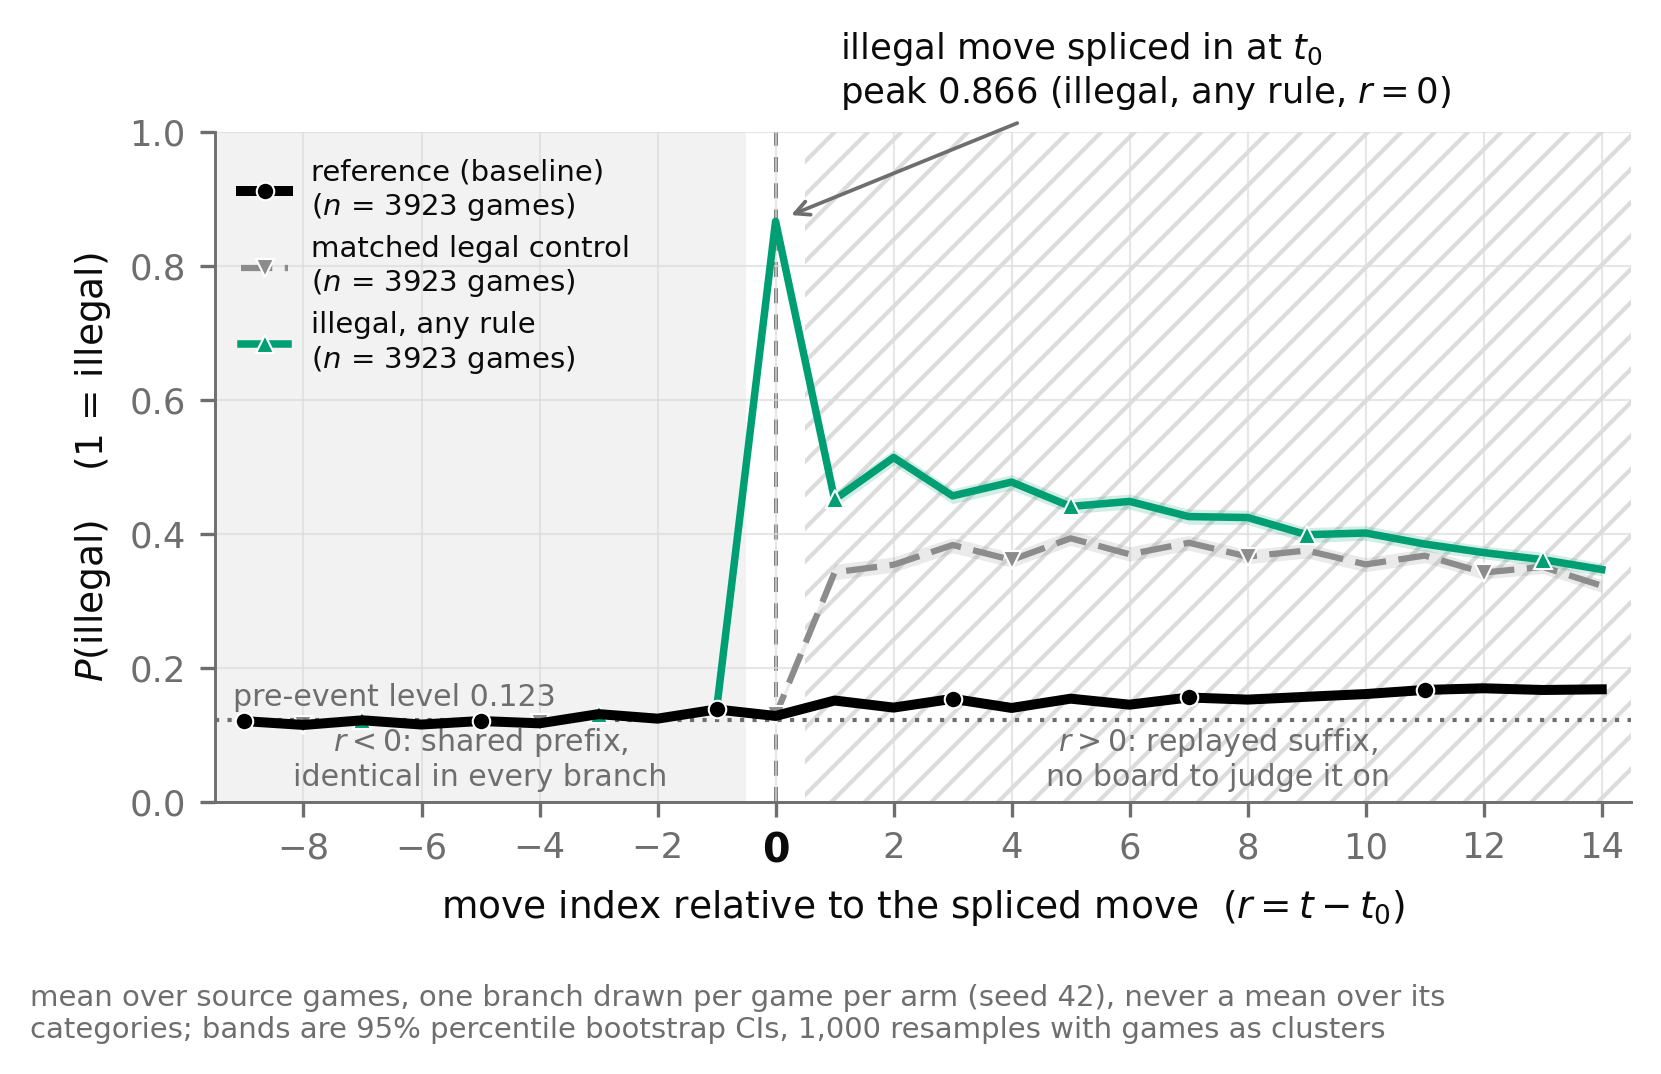
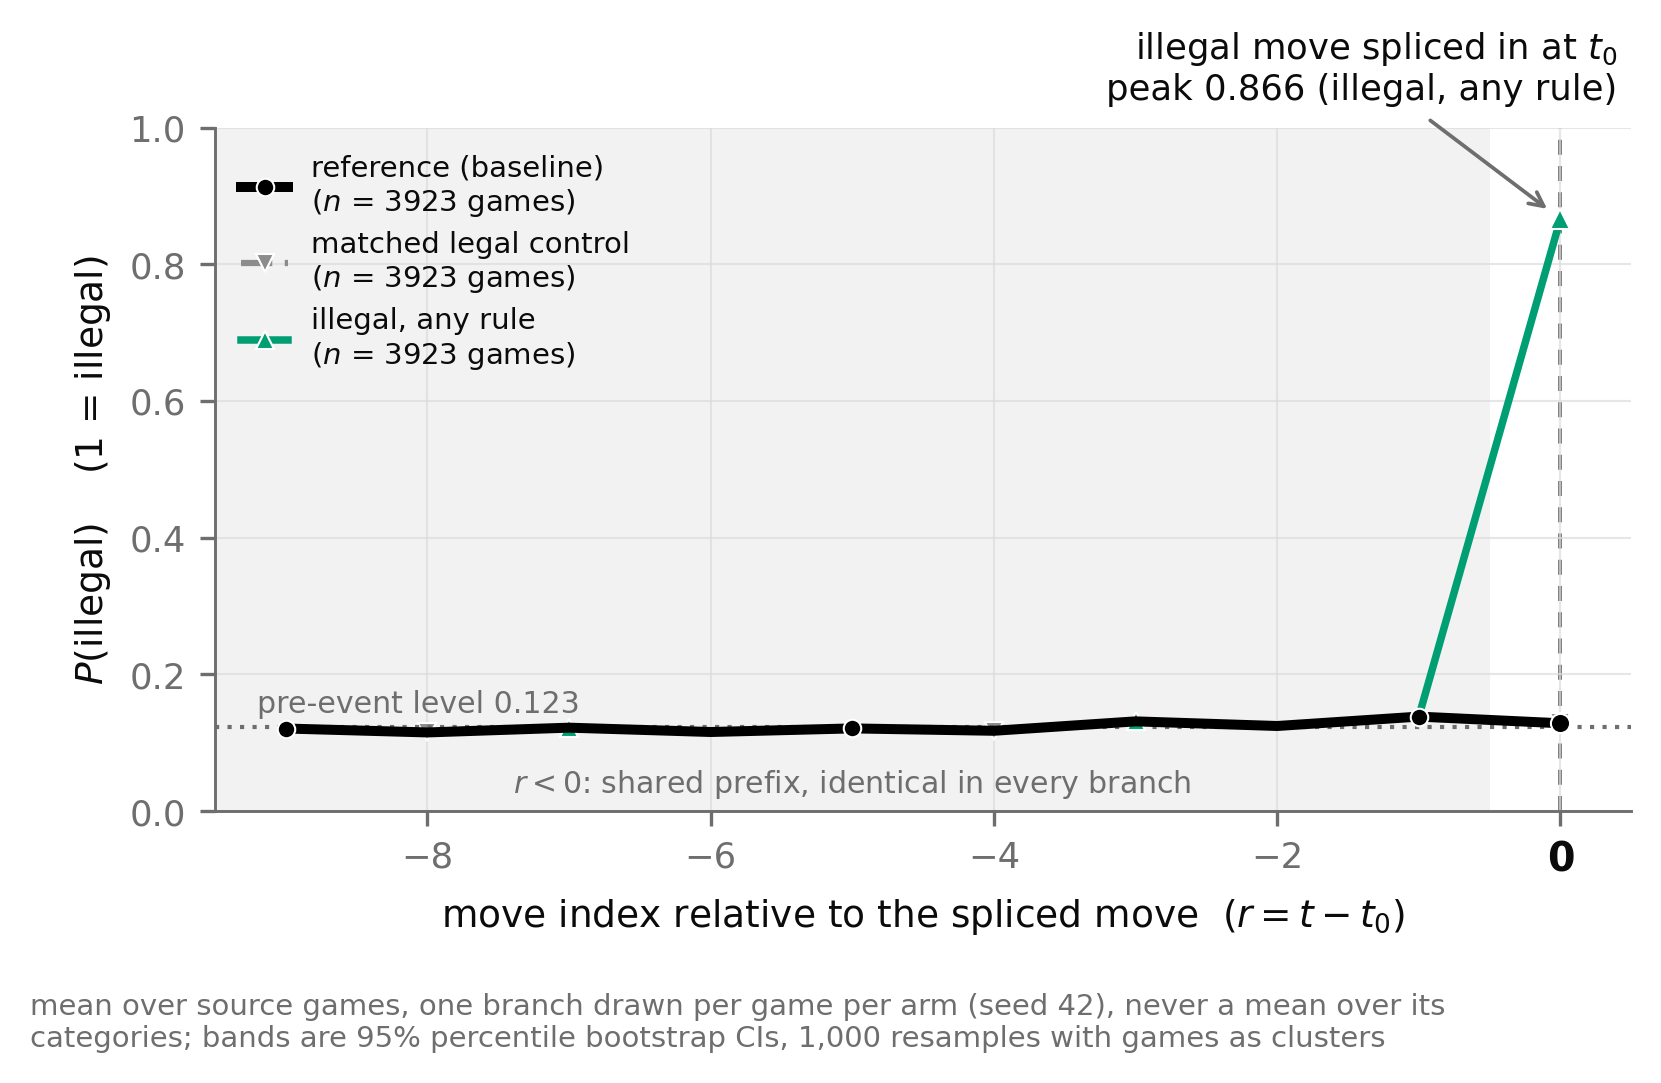
Cut the move-legality curves at r = 0
The post-t0 tail invited two readings the study cannot separate. It is mostly the
splice, not the illegality: 77.6% of the elevation over the reference is already
present in a branch whose t0 move is legal, and adjudicating the control arm puts
24.7% of replayed suffixes illegal at r = +1 with a median first break at r = +3.
And the probe was never fit past t0 anyway, since every fit-set row's tokens[:t]
is a legal game. Nothing there was ever scored; now nothing there is drawn.

diff --git a/analysis/move_legality/localization.py b/analysis/move_legality/localization.py
@@ -12,11 +12,14 @@ pick-a-position chance the rate is read against) and `rule_posterior_<space>.csv
 4-class posterior at t0 per arm, where the probe's legal/R1 leak shows).
 
 The pre-event window is shaded because r < 0 is bit-identical across a game's branches
-(causal attention), so it is a paired baseline and not an approximation of one; the
-post-event region is hatched because the branch replays the source game's suffix onto a board
-that no longer exists, so nothing there carries a ground-truth label. Every scalar in the CSVs
-is therefore scored over t <= t0 only, against the legal control branch of the same game at
-the same t0.
+(causal attention), so it is a paired baseline and not an approximation of one.
+
+The window STOPS at r = 0. A branch keeps the source game's tokens[t0+1:] verbatim -- the
+suffix assumes the *reference* move, never the spliced one -- so past t0 it is replayed onto
+a board that no longer exists and no move there has a legality label to plot against. The
+probe cannot be read as judging those positions either: every fit-set row's tokens[:t] is a
+legal game, so a prefix containing an illegal move is a state it was never fit on. Drawing
+the tail invited both readings; the CSVs already score t <= t0 only.
 
 Usage: python analysis/move_legality/localization.py [--space raw] [--camera_ready]
 """
@@ -31,8 +34,8 @@ from matplotlib import pyplot as plt
 
 from spade.common.paths import repo_root
 from spade.figures.paper_style import (
-    CLASS_STYLE, GRID, INK, MUTED, NULL, PRE_EVENT_FACE, PROBE_CLASS_STYLE, REFERENCE,
-    UNDEFINED_HATCH, apply_style, rule_key, save_figure)
+    CLASS_STYLE, INK, MUTED, NULL, PRE_EVENT_FACE, PROBE_CLASS_STYLE, REFERENCE, apply_style,
+    rule_key, save_figure)
 from spade.move_legality import localize
 from spade.move_legality.fit_set import CLASSES
 
@@ -70,8 +73,6 @@ def draw(space: str, slug: str, ylabel: str, score: torch.Tensor, meta: dict,
     zero = localize.WINDOW.index(0)
 
     ax.axvspan(left, -0.5, color=PRE_EVENT_FACE, zorder=0, lw=0)
-    ax.axvspan(0.5, right, facecolor="none", edgecolor=GRID, hatch=UNDEFINED_HATCH,
-               zorder=0, lw=0)
     ax.axvline(0, color=MUTED, ls=(0, (4, 3)), lw=0.9, zorder=1)
 
     means = {}
@@ -84,6 +85,11 @@ def draw(space: str, slug: str, ylabel: str, score: torch.Tensor, meta: dict,
                 markevery=(i, 4), markeredgecolor="white", markeredgewidth=0.5,
                 zorder=style.get("zorder", 4),
                 label=f"{style['label']}\n($n$ = {len(rows)} games)")
+        # The event is the whole figure, so every arm carries its marker there whatever the
+        # stagger lands on -- at r = 0 the marker is what separates the arms in grayscale.
+        ax.plot(0, means[name][zero], color=style["color"], marker=style["marker"],
+                markersize=4.6, markeredgecolor="white", markeredgewidth=0.5,
+                zorder=style.get("zorder", 4) + 1)
 
     ax.set_xlim(left, right)
     ax.set_ylim(0, 1)
@@ -99,17 +105,15 @@ def draw(space: str, slug: str, ylabel: str, score: torch.Tensor, meta: dict,
     ax.axhline(baseline, color=MUTED, ls=(0, (1, 2)), lw=1.0, zorder=2)
     ax.text(left + 0.3, baseline + 0.012, f"pre-event level {baseline:.3f}", color=MUTED,
             fontsize=7.2, ha="left", va="bottom")
-    ax.text((left - 0.5) / 2, 0.015, "$r<0$: shared prefix,\nidentical in every branch",
-            color=MUTED, fontsize=7.2, ha="center", va="bottom")
-    ax.text((right + 0.5) / 2, 0.015, "$r>0$: replayed suffix,\nno board to judge it on",
+    ax.text((left - 0.5) / 2, 0.015, "$r<0$: shared prefix, identical in every branch",
             color=MUTED, fontsize=7.2, ha="center", va="bottom")
 
     top = max((n for n in arms if n not in ("reference", "control")),
               key=lambda n: means[n][zero])
     ax.annotate(f"illegal move spliced in at $t_0$\n"
-                f"peak {float(means[top][zero]):.3f} ({ARM_STYLE[top]['label']}, $r=0$)",
-                xy=(0, float(means[top][zero])), xytext=(1.1, 1.03),
-                textcoords=("data", "axes fraction"), ha="left", va="bottom", fontsize=8.5,
+                f"peak {float(means[top][zero]):.3f} ({ARM_STYLE[top]['label']})",
+                xy=(0, float(means[top][zero])), xytext=(0.99, 1.03),
+                textcoords="axes fraction", ha="right", va="bottom", fontsize=8.5,
                 color=INK, arrowprops={"arrowstyle": "->", "color": MUTED, "lw": 0.9,
                                        "shrinkB": 4})
     ax.legend(loc="upper left", fontsize=7, handlelength=1.6, labelspacing=0.4,

diff --git a/src/spade/move_legality/localize.py b/src/spade/move_legality/localize.py
@@ -27,11 +27,12 @@ from spade.move_legality.fit_set import SINK
 from spade.othello.taxonomy import CATEGORIES, LEGAL, RULE_OF
 from spade.violation_divergence.branches import T0_MAX, T0_MIN, role
 
-# Not the divergence study's r in [-8, 24]: there the post-event tail is the measurement,
-# here it is the region with no ground truth, and FIGURE_GUIDELINES 4.2 wants a quarter to
-# a half of the drawn window *before* the event. The ends are what t0 in [10, 34] allows:
-# r = -10 is position 0 of the earliest fork, r = +14 is position 48 of the latest.
-R_MAX = 14
+# The window stops AT the event. Past t0 a branch replays the reference's suffix onto a board
+# that no longer exists, so no move there has a legality label to plot against -- and the
+# probe never saw such a prefix in training either (every fit-set row's tokens[:t] is a legal
+# game), so its output there is extrapolation, not a judgement. r = -9 is what t0 >= 10
+# allows once position 0, the attention sink, is dropped.
+R_MAX = 0
 WINDOW = tuple(range(SINK + 1 - T0_MIN, R_MAX + 1))
 assert T0_MAX + R_MAX < 59, "the window leaves the board at the latest fork"
 

diff --git a/src/spade/figures/paper_style.py b/src/spade/figures/paper_style.py
@@ -15,9 +15,8 @@ OKABE_ITO = ["#0072B2", "#D55E00", "#009E73", "#CC79A7",
 
 INK, MUTED, GRID = "#0b0b0b", "#6e6e6e", "#dcdcdc"
 
-# Event-locked panel furniture (FIGURE_GUIDELINES 4.2): the shaded pre-event window, and the
-# hatch for a region a study can draw but has no ground truth to label.
-PRE_EVENT_FACE, UNDEFINED_HATCH = "#f2f2f2", "///"
+# Event-locked panel furniture (FIGURE_GUIDELINES 4.2): the shaded pre-event window.
+PRE_EVENT_FACE = "#f2f2f2"
 
 # Reference/baseline and null styling: never in the categorical cycle.
 REFERENCE = {"color": "#000000", "marker": "o", "lw": 2.4, "zorder": 5}

diff --git a/analysis/move_legality/README.md b/analysis/move_legality/README.md
@@ -59,15 +59,15 @@ different legal move at *t0*), and one branch per illegal category. 34,546 seque
 Its 3,923 source games are disjoint from the probe's 800 by exact token match — they are
 literally the first 3,923 games of the same seeded stream, all of which the fit set skips.
 
-## Ground truth stops at *t0*, and the figures say so
+## Ground truth stops at *t0*, and so does the plotted window
 
-A branch keeps the source game's `tokens[t0+1:]`. That suffix is a legal continuation of
-the *reference's* board and of no other; after an illegal move no board exists for it to be
-legal on, and the engine refuses to build one (`OthelloBoardState.umpire` asserts the
-square is empty and that something flips). So:
+A branch keeps the source game's `tokens[t0+1:]` **verbatim** — the suffix assumes the
+*reference's* move, never the spliced one, and `branches.py` asserts every arm of a game
+shares it bitwise. It is a legal continuation of the reference's board and of no other;
+after an illegal move no board exists for it to be legal on, and the engine refuses to build
+one (`OthelloBoardState.umpire` asserts the square is empty and that something flips). So:
 
-- the probe is written out at **all** 59 positions, and the curve past *t0* is drawn,
-  hatched, and labelled as carrying no ground truth;
+- the probe is written out at **all** 59 positions, but the figures stop at *r* = 0;
 - every localization statistic is taken over *t* ∈ [1, *t0*];
 - the **legal control branch of the same game at the same *t0*** is the false-alarm rate of
   exactly that statistic — same prefix, same position, same estimator, legal move.
@@ -140,15 +140,31 @@ illegal mass skewed **7.1×** toward R3 and **3.0×** toward R2 while R1 is supp
 **0.10×**. The violations the representation marks most sharply are the ones the model
 actually makes; the one it marks worst is the one it essentially never makes.
 
-### The rise after *t0* is the splice, not the illegality
+### Why the window stops at *r* = 0
 
 Raw, 2-class, mean over games: the pre-event level is 0.123 for every arm (identical by
 construction — the branches share `tokens[:t0]` bitwise). At *r* = 0 the illegal arm hits
-0.866. After it, the illegal arm averages 0.422 — but the **legal** control averages 0.362
-against the reference's 0.156. Roughly six sevenths of the post-event elevation is present
-in a branch whose *t0* move is perfectly legal. That is the hatched region earning its
-label: what the probe reads after *t0* is mostly "this suffix does not belong to this
-board", and it is why nothing there is scored.
+0.866. Past it the illegal arm averages 0.422 — but the **legal** control averages 0.362
+against the reference's 0.156, so **77.6%** of the post-event elevation over the reference
+is already present in a branch whose *t0* move is perfectly legal.
+
+That tail was drawn and hatched for a while. It is now cut, because it invites two readings
+the study cannot separate:
+
+1. *It is mostly the splice, not the illegality.* Any different move at *t0* — legal or not —
+   leaves the replayed suffix on a board it does not belong to. Adjudicating the control arm,
+   where a board still exists, 24.7% of suffixes are illegal at the very first replayed move,
+   the median first break is *r* = +3, and 99.8% break inside a 14-move window.
+2. *The probe was never fit to answer there.* Every fit-set row's `tokens[:t]` is a legal
+   game, so a prefix containing an illegal move is a state the probe never saw. Its output
+   past *t0* on an illegal branch is extrapolation, not a judgement — and there is no label
+   to check it against, since the suffix assumes the reference move and no board exists for
+   the spliced one.
+
+Where a board does survive the probe tracks it well (AUROC 0.92–0.98 against real legality
+at *r* = +1 … +8 on still-legal control prefixes), but the adjudicable sample collapses from
+1500 to 273 across that range. Nothing past *t0* was ever scored; now nothing past *t0* is
+drawn either.
 
 ### Across spaces: width buys more than training does
 
@@ -193,7 +209,7 @@ called PAnneal a faithful dictionary.
    broken, so `rule_posterior_raw.csv` has no baseline row. This is not proof that the rule
    is unavailable without a probe — a cleverer oracle-free statistic might recover it.
 3. Ground truth exists only for *t* ≤ *t0*; see above. Nothing past *t0* is scored, and the
-   figures hatch it.
+   figures stop there.
 4. `stream_games` reads a ~1% window of the corpus, not a sample of it
    (`docs/game_corpus.md`). The probe games and the read-out games are disjoint but adjacent
    in one stream order, and a different seed is not a replication.
@@ -210,9 +226,10 @@ called PAnneal a faithful dictionary.
 | `raw_2class.png` | does the residual stream localize an illegal move at all? |
 | `raw_4class.png` | the same question per rule, from the 4-class head |
 
-Both are event-locked to the spliced move at *t0*: `P(illegal)` and `1 − P(legal)` on a full
-0–1 axis, the reference game and the same game's matched legal control drawn beside the
-illegal arms, the shared prefix shaded and the no-ground-truth region hatched.
+Both are event-locked to the spliced move at *t0* and run *r* ∈ [−9, 0]: `P(illegal)` and
+`1 − P(legal)` on a full 0–1 axis, the reference game and the same game's matched legal
+control drawn beside the illegal arms, the shared prefix shaded. Nothing past the event is
+drawn — see "Why the window stops at *r* = 0".
 
 Every band is a 95% percentile bootstrap CI resampling **source games** as clusters (1,000
 resamples). A game's branches share `tokens[:t0]` and are not independent draws; resampling

diff --git a/PROCESS.md b/PROCESS.md
@@ -23,8 +23,23 @@ that the localization rate is read against is now a `chance_hit_rate` column in
 per-rule `draw` calls and had to be kept -- dropping the loop wholesale would have cost 12 of
 21 rows of that CSV.
 
+**The window then stopped at r = 0, and the hatched tail went with it.** Drawing it invited
+two readings the study cannot separate. It is mostly the *splice*, not the illegality -- any
+different move at t0 leaves the replayed suffix on a board it does not belong to, and 77.6%
+of the post-event elevation over the reference is already present in a branch whose t0 move
+is perfectly legal. And the probe was never fit to answer past t0 at all: every fit-set row's
+tokens[:t] is a legal game, so a prefix containing an illegal move is a state it never saw,
+and the suffix assumes the *reference* move (branches.py asserts it is shared bitwise), so
+there is no label for the spliced board either. Adjudicating the control arm -- the only one
+where a board survives -- put numbers on the first reading: 24.7% of suffixes are illegal at
+r = +1, median first break r = +3, 99.8% break inside 14 moves, and where a board does
+survive the probe tracks it at AUROC 0.92-0.98 on a sample collapsing 1500 -> 273. Nothing
+past t0 was ever scored; now nothing past t0 is drawn.
+
 Five arms on one axis is past what hue and marker carry: R1/R2/R3 land inside a 32-level gray
 band, so the rules take dash patterns and the reference is left as the only solid heavy line.
+With the window ending on the event, every arm also takes an explicit marker at r = 0 -- the
+staggered `markevery` does not land there, and r = 0 is now the whole figure.
 `hit_curve`'s per-`t0` bootstrap loop was the expensive half of every `scalar_rows` call and
 existed only for the deleted rate-vs-t0 panel; it is gone, and `scalar_rows` is ~25x cheaper.
 
